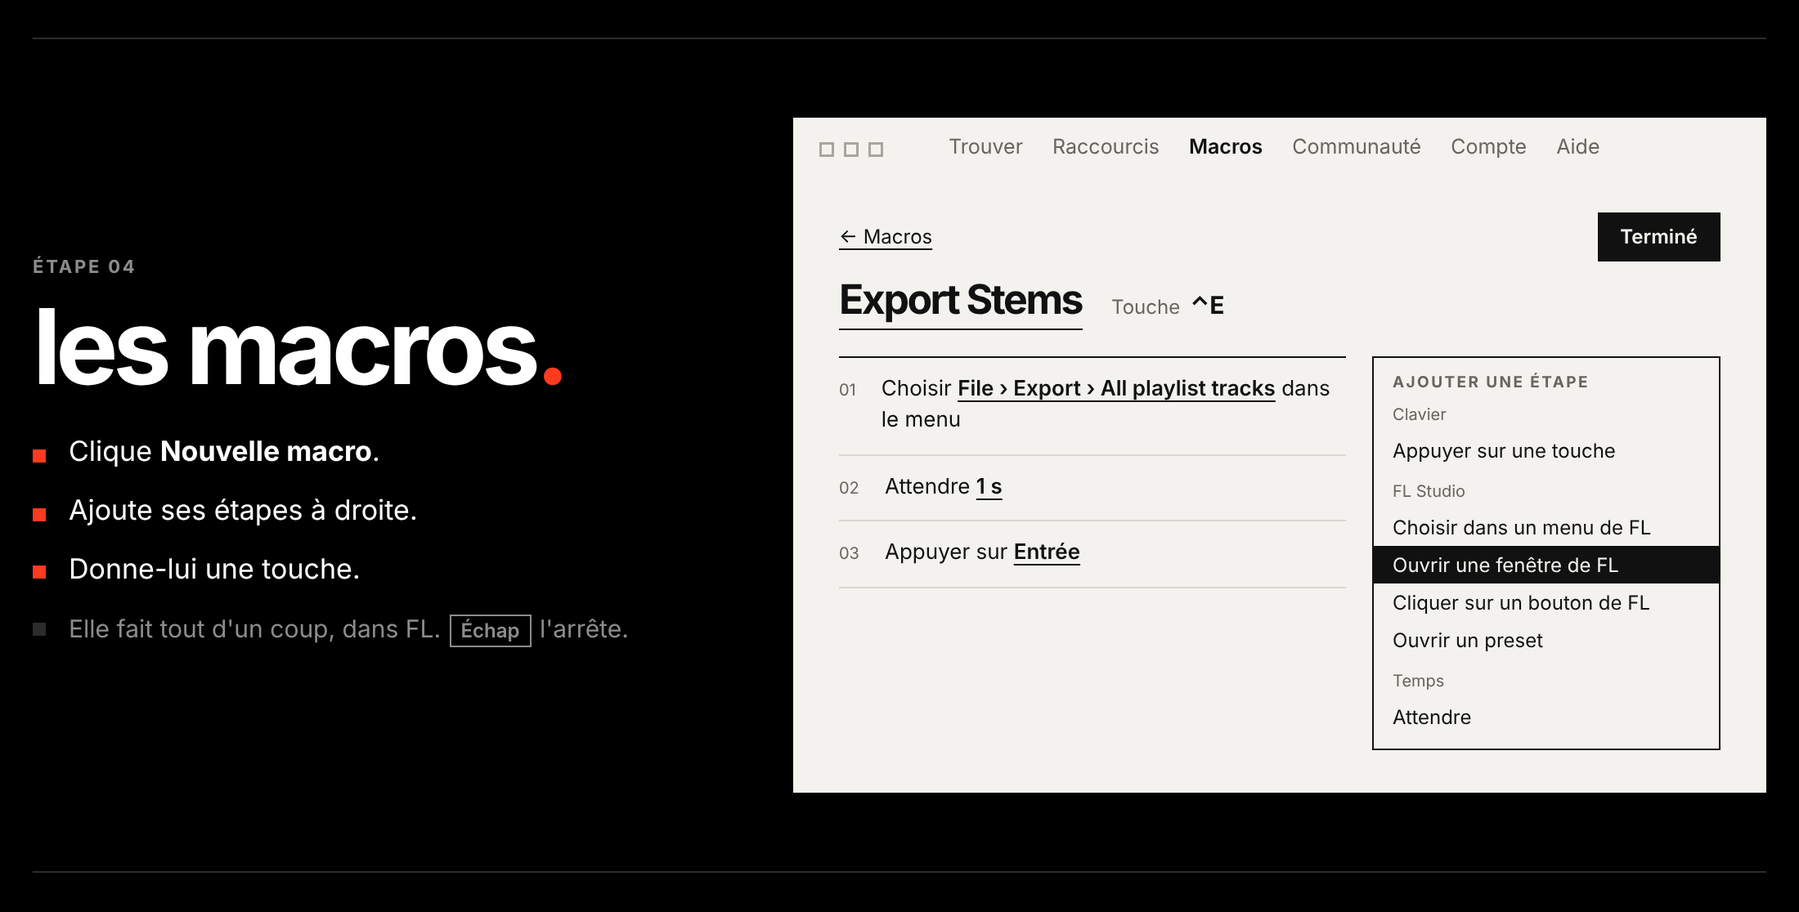
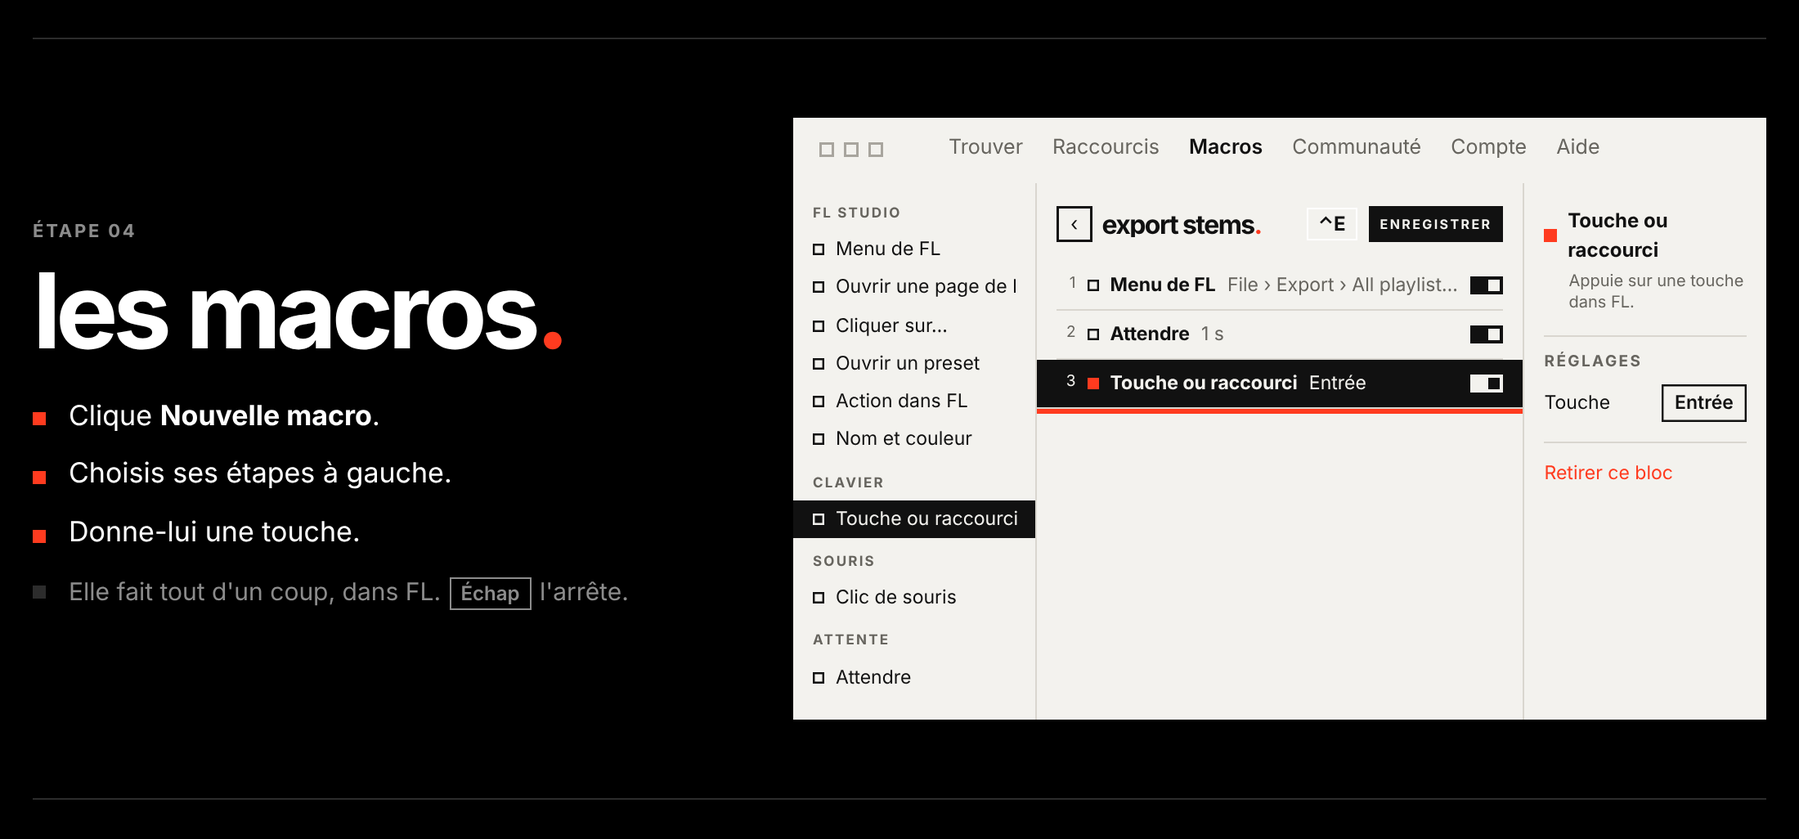
README, tuto et modes d'emploi : le créateur en colonnes (étapes à gauche, réglages à droite) [skip ci]
Claude-Session: https://claude.ai/code/session_01N2FeTTyP7w1fPFHnaWwLWu

diff --git a/site/tuto.html b/site/tuto.html
@@ -118,20 +118,42 @@ main { max-width: 1100px; margin: 0 auto; padding: 0 20px 64px; }
 .rows li.hl .meta, .rows li.hl .meta span:last-child { color: var(--a-bg); }
 
 /* 04 macros */
-.creator-top { display: flex; justify-content: space-between; align-items: center; font-size: 12px; margin-bottom: 12px; }
-.creator-head { display: flex; align-items: baseline; gap: 18px; margin-bottom: 16px; }
-.creator-head .a-title { font-size: 25px; border-bottom: 1px solid var(--a-ink); padding-bottom: 4px; }
-.creator-head .tch { font-size: 12px; color: var(--a-gray); } .creator-head .tch b { color: var(--a-ink); font-size: 15px; margin-left: 6px; }
-.creator { display: grid; grid-template-columns: 1.45fr 1fr; gap: 16px; align-items: start; }
-.srows { border-top: 1px solid var(--a-ink); }
-.srow { display: flex; gap: 12px; align-items: baseline; padding: 10px 0; border-bottom: 1px solid var(--a-line); font-size: 13px; }
-.srow .n { color: var(--a-gray); font-size: 10px; width: 16px; }
-.srow em { font-style: normal; font-weight: 600; text-decoration: underline; text-underline-offset: 3px; }
-.srow.add { color: var(--a-gray); }
-.addbox { border: 1.5px solid var(--a-ink); padding: 10px 12px 8px; font-size: 12px; }
-.addbox .grp { color: var(--a-gray); font-size: 10px; margin: 7px 0 2px; }
-.addbox div:not(.grp):not(.a-label) { padding: 2.5px 0; }
-.addbox .hov { background: var(--a-ink); color: var(--a-bg); margin: 0 -12px; padding-left: 12px !important; }
+/* Créateur de macros en colonnes (28/11, « retourner au pattern qu'on avait avant ») : palette, étapes, réglages. */
+.mk { display: grid; grid-template-columns: 25% 1fr 25%; min-height: 300px; font-size: 11.5px; }
+.mk > div { padding: 14px 12px; min-width: 0; }
+.mk .pal { border-right: 1px solid var(--a-line); }
+.mk .ins { border-left: 1px solid var(--a-line); }
+.mk .cat { font: 700 8.5px/1.2 var(--a-font); letter-spacing: 1.1px; text-transform: uppercase; color: var(--a-gray); margin: 10px 0 5px; }
+.mk .cat:first-child { margin-top: 0; }
+.mk .blk { display: flex; align-items: center; gap: 7px; padding: 3px 0; white-space: nowrap; overflow: hidden; text-overflow: ellipsis; }
+.mk .blk::before { content: ""; flex: none; width: 7px; height: 7px; box-shadow: inset 0 0 0 1.2px var(--a-ink); }
+.mk .blk.hov { background: var(--a-ink); color: var(--a-bg); margin: 0 -12px; padding-left: 12px; }
+.mk .blk.hov::before { box-shadow: inset 0 0 0 1.2px var(--a-bg); }
+.mk .head { display: flex; align-items: center; gap: 6px; margin-bottom: 12px; }
+.mk .back { flex: none; width: 22px; height: 22px; box-shadow: inset 0 0 0 1.5px var(--a-ink); display: grid; place-items: center; font-size: 12px; }
+.mk .head .a-title { font-size: 16px; letter-spacing: -0.05em; flex: 1; white-space: nowrap; overflow: hidden; }
+.mk .head .k { font-size: 12px; font-weight: 700; }
+.mk .head .a-btn { height: 22px; padding: 0 7px; font-size: 8px; }
+.mk .row { display: flex; align-items: center; gap: 7px; height: 30px; border-bottom: 1px solid var(--a-line); white-space: nowrap; overflow: hidden; }
+.mk .row:first-of-type { border-top: 1px solid var(--a-line); }
+.mk .row .n { width: 12px; color: var(--a-gray); font-size: 9.5px; text-align: right; flex: none; }
+.mk .row .sq { flex: none; width: 7px; height: 7px; box-shadow: inset 0 0 0 1.2px var(--a-ink); }
+.mk .row b { font-weight: 700; }
+.mk .row .v { color: var(--a-gray); overflow: hidden; text-overflow: ellipsis; }
+.mk .row .sw { margin-left: auto; flex: none; width: 20px; height: 11px; background: var(--a-ink); position: relative; }
+.mk .row .sw::after { content: ""; position: absolute; right: 2px; top: 2px; width: 7px; height: 7px; background: var(--a-bg); }
+.mk .row.on { background: var(--a-ink); color: var(--a-bg); margin: 0 -12px; padding: 0 12px; box-shadow: 0 3px 0 var(--red); }
+.mk .row.on .n, .mk .row.on .v { color: var(--a-bg); }
+.mk .row.on .sq { background: var(--red); box-shadow: none; }
+.mk .row.on .sw { background: var(--a-bg); } .mk .row.on .sw::after { background: var(--a-ink); }
+.mk .ins h4 { margin: 0; font-size: 12px; display: flex; align-items: center; gap: 7px; }
+.mk .ins h4::before { content: ""; width: 8px; height: 8px; background: var(--red); }
+.mk .ins p { margin: 4px 0 0 15px; color: var(--a-gray); font-size: 10px; line-height: 1.35; }
+.mk .ins .set { margin-top: 12px; padding-top: 10px; border-top: 1px solid var(--a-line); }
+.mk .ins .fld { display: flex; justify-content: space-between; align-items: center; margin-top: 8px; gap: 8px; }
+.mk .ins .fld span:last-child { box-shadow: inset 0 0 0 1.2px var(--a-ink); padding: 3px 8px; font-weight: 600; }
+.mk .ins .rm { display: block; margin-top: 12px; padding-top: 10px; border-top: 1px solid var(--a-line); color: var(--red); }
+@media (max-width: 720px) { .mk { grid-template-columns: 1fr; } .mk .pal, .mk .ins { display: none; } }
 
 /* 05 organiser */
 .org-head { display: flex; align-items: center; gap: 8px; padding-bottom: 10px; border-bottom: 1.5px solid var(--a-ink); }
@@ -322,7 +344,7 @@ footer { padding-top: 40px; color: var(--gray); font-size: 13px; }
     <h2>les macros<span class="point">.</span></h2>
     <ul class="lines">
       <li>Clique <b>Nouvelle macro</b>.</li>
-      <li>Ajoute ses étapes à droite.</li>
+      <li>Choisis ses étapes à gauche.</li>
       <li>Donne-lui une touche.</li>
       <li class="sub">Elle fait tout d'un coup, dans FL. <span class="k">Échap</span> l'arrête.</li>
     </ul>
@@ -330,21 +352,30 @@ footer { padding-top: 40px; color: var(--gray); font-size: 13px; }
   <div class="stage" aria-hidden="true">
     <div class="app">
       <div class="bar"><span class="lights"><i></i><i></i><i></i></span><span>Trouver</span><span>Raccourcis</span><span class="on">Macros</span><span>Communauté</span><span>Compte</span><span>Aide</span></div>
-      <div class="page">
-        <div class="creator-top"><span class="u">← Macros</span><span class="a-btn lc">Terminé</span></div>
-        <div class="creator-head"><span class="a-title">Export Stems</span><span class="tch">Touche<b>⌃E</b></span></div>
-        <div class="creator">
-          <div class="srows">
-            <div class="srow"><span class="n">01</span><span>Choisir <em>File › Export › All playlist tracks</em> dans le menu</span></div>
-            <div class="srow"><span class="n">02</span><span>Attendre <em>1 s</em></span></div>
-            <div class="srow"><span class="n">03</span><span>Appuyer sur <em>Entrée</em></span></div>
-          </div>
-          <div class="addbox">
-            <div class="a-label">Ajouter une étape</div>
-            <div class="grp">Clavier</div><div>Appuyer sur une touche</div>
-            <div class="grp">FL Studio</div><div>Choisir dans un menu de FL</div><div class="hov">Ouvrir une fenêtre de FL</div><div>Cliquer sur un bouton de FL</div><div>Ouvrir un preset</div>
-            <div class="grp">Temps</div><div>Attendre</div>
-          </div>
+      <div class="mk">
+        <div class="pal">
+          <div class="cat">FL Studio</div>
+          <div class="blk">Menu de FL</div><div class="blk">Ouvrir une page de FL</div><div class="blk">Cliquer sur…</div>
+          <div class="blk">Ouvrir un preset</div><div class="blk">Action dans FL</div><div class="blk">Nom et couleur</div>
+          <div class="cat">Clavier</div>
+          <div class="blk hov">Touche ou raccourci</div>
+          <div class="cat">Souris</div>
+          <div class="blk">Clic de souris</div>
+          <div class="cat">Attente</div>
+          <div class="blk">Attendre</div>
+        </div>
+        <div>
+          <div class="head"><span class="back">‹</span><span class="a-title">export stems<span class="point">.</span></span><span class="k">⌃E</span><span class="a-btn">Enregistrer</span></div>
+          <div class="row"><span class="n">1</span><span class="sq"></span><b>Menu de FL</b><span class="v">File › Export › All playlist tracks</span><span class="sw"></span></div>
+          <div class="row"><span class="n">2</span><span class="sq"></span><b>Attendre</b><span class="v">1 s</span><span class="sw"></span></div>
+          <div class="row on"><span class="n">3</span><span class="sq"></span><b>Touche ou raccourci</b><span class="v">Entrée</span><span class="sw"></span></div>
+        </div>
+        <div class="ins">
+          <h4>Touche ou raccourci</h4>
+          <p>Appuie sur une touche dans FL.</p>
+          <div class="set"><div class="a-label">Réglages</div>
+            <div class="fld"><span>Touche</span><span>Entrée</span></div></div>
+          <span class="rm">Retirer ce bloc</span>
         </div>
       </div>
     </div>

diff --git a/web/public/tuto.html b/web/public/tuto.html
@@ -118,20 +118,42 @@ main { max-width: 1100px; margin: 0 auto; padding: 0 20px 64px; }
 .rows li.hl .meta, .rows li.hl .meta span:last-child { color: var(--a-bg); }
 
 /* 04 macros */
-.creator-top { display: flex; justify-content: space-between; align-items: center; font-size: 12px; margin-bottom: 12px; }
-.creator-head { display: flex; align-items: baseline; gap: 18px; margin-bottom: 16px; }
-.creator-head .a-title { font-size: 25px; border-bottom: 1px solid var(--a-ink); padding-bottom: 4px; }
-.creator-head .tch { font-size: 12px; color: var(--a-gray); } .creator-head .tch b { color: var(--a-ink); font-size: 15px; margin-left: 6px; }
-.creator { display: grid; grid-template-columns: 1.45fr 1fr; gap: 16px; align-items: start; }
-.srows { border-top: 1px solid var(--a-ink); }
-.srow { display: flex; gap: 12px; align-items: baseline; padding: 10px 0; border-bottom: 1px solid var(--a-line); font-size: 13px; }
-.srow .n { color: var(--a-gray); font-size: 10px; width: 16px; }
-.srow em { font-style: normal; font-weight: 600; text-decoration: underline; text-underline-offset: 3px; }
-.srow.add { color: var(--a-gray); }
-.addbox { border: 1.5px solid var(--a-ink); padding: 10px 12px 8px; font-size: 12px; }
-.addbox .grp { color: var(--a-gray); font-size: 10px; margin: 7px 0 2px; }
-.addbox div:not(.grp):not(.a-label) { padding: 2.5px 0; }
-.addbox .hov { background: var(--a-ink); color: var(--a-bg); margin: 0 -12px; padding-left: 12px !important; }
+/* Créateur de macros en colonnes (28/11, « retourner au pattern qu'on avait avant ») : palette, étapes, réglages. */
+.mk { display: grid; grid-template-columns: 25% 1fr 25%; min-height: 300px; font-size: 11.5px; }
+.mk > div { padding: 14px 12px; min-width: 0; }
+.mk .pal { border-right: 1px solid var(--a-line); }
+.mk .ins { border-left: 1px solid var(--a-line); }
+.mk .cat { font: 700 8.5px/1.2 var(--a-font); letter-spacing: 1.1px; text-transform: uppercase; color: var(--a-gray); margin: 10px 0 5px; }
+.mk .cat:first-child { margin-top: 0; }
+.mk .blk { display: flex; align-items: center; gap: 7px; padding: 3px 0; white-space: nowrap; overflow: hidden; text-overflow: ellipsis; }
+.mk .blk::before { content: ""; flex: none; width: 7px; height: 7px; box-shadow: inset 0 0 0 1.2px var(--a-ink); }
+.mk .blk.hov { background: var(--a-ink); color: var(--a-bg); margin: 0 -12px; padding-left: 12px; }
+.mk .blk.hov::before { box-shadow: inset 0 0 0 1.2px var(--a-bg); }
+.mk .head { display: flex; align-items: center; gap: 6px; margin-bottom: 12px; }
+.mk .back { flex: none; width: 22px; height: 22px; box-shadow: inset 0 0 0 1.5px var(--a-ink); display: grid; place-items: center; font-size: 12px; }
+.mk .head .a-title { font-size: 16px; letter-spacing: -0.05em; flex: 1; white-space: nowrap; overflow: hidden; }
+.mk .head .k { font-size: 12px; font-weight: 700; }
+.mk .head .a-btn { height: 22px; padding: 0 7px; font-size: 8px; }
+.mk .row { display: flex; align-items: center; gap: 7px; height: 30px; border-bottom: 1px solid var(--a-line); white-space: nowrap; overflow: hidden; }
+.mk .row:first-of-type { border-top: 1px solid var(--a-line); }
+.mk .row .n { width: 12px; color: var(--a-gray); font-size: 9.5px; text-align: right; flex: none; }
+.mk .row .sq { flex: none; width: 7px; height: 7px; box-shadow: inset 0 0 0 1.2px var(--a-ink); }
+.mk .row b { font-weight: 700; }
+.mk .row .v { color: var(--a-gray); overflow: hidden; text-overflow: ellipsis; }
+.mk .row .sw { margin-left: auto; flex: none; width: 20px; height: 11px; background: var(--a-ink); position: relative; }
+.mk .row .sw::after { content: ""; position: absolute; right: 2px; top: 2px; width: 7px; height: 7px; background: var(--a-bg); }
+.mk .row.on { background: var(--a-ink); color: var(--a-bg); margin: 0 -12px; padding: 0 12px; box-shadow: 0 3px 0 var(--red); }
+.mk .row.on .n, .mk .row.on .v { color: var(--a-bg); }
+.mk .row.on .sq { background: var(--red); box-shadow: none; }
+.mk .row.on .sw { background: var(--a-bg); } .mk .row.on .sw::after { background: var(--a-ink); }
+.mk .ins h4 { margin: 0; font-size: 12px; display: flex; align-items: center; gap: 7px; }
+.mk .ins h4::before { content: ""; width: 8px; height: 8px; background: var(--red); }
+.mk .ins p { margin: 4px 0 0 15px; color: var(--a-gray); font-size: 10px; line-height: 1.35; }
+.mk .ins .set { margin-top: 12px; padding-top: 10px; border-top: 1px solid var(--a-line); }
+.mk .ins .fld { display: flex; justify-content: space-between; align-items: center; margin-top: 8px; gap: 8px; }
+.mk .ins .fld span:last-child { box-shadow: inset 0 0 0 1.2px var(--a-ink); padding: 3px 8px; font-weight: 600; }
+.mk .ins .rm { display: block; margin-top: 12px; padding-top: 10px; border-top: 1px solid var(--a-line); color: var(--red); }
+@media (max-width: 720px) { .mk { grid-template-columns: 1fr; } .mk .pal, .mk .ins { display: none; } }
 
 /* 05 organiser */
 .org-head { display: flex; align-items: center; gap: 8px; padding-bottom: 10px; border-bottom: 1.5px solid var(--a-ink); }
@@ -322,7 +344,7 @@ footer { padding-top: 40px; color: var(--gray); font-size: 13px; }
     <h2>les macros<span class="point">.</span></h2>
     <ul class="lines">
       <li>Clique <b>Nouvelle macro</b>.</li>
-      <li>Ajoute ses étapes à droite.</li>
+      <li>Choisis ses étapes à gauche.</li>
       <li>Donne-lui une touche.</li>
       <li class="sub">Elle fait tout d'un coup, dans FL. <span class="k">Échap</span> l'arrête.</li>
     </ul>
@@ -330,21 +352,30 @@ footer { padding-top: 40px; color: var(--gray); font-size: 13px; }
   <div class="stage" aria-hidden="true">
     <div class="app">
       <div class="bar"><span class="lights"><i></i><i></i><i></i></span><span>Trouver</span><span>Raccourcis</span><span class="on">Macros</span><span>Communauté</span><span>Compte</span><span>Aide</span></div>
-      <div class="page">
-        <div class="creator-top"><span class="u">← Macros</span><span class="a-btn lc">Terminé</span></div>
-        <div class="creator-head"><span class="a-title">Export Stems</span><span class="tch">Touche<b>⌃E</b></span></div>
-        <div class="creator">
-          <div class="srows">
-            <div class="srow"><span class="n">01</span><span>Choisir <em>File › Export › All playlist tracks</em> dans le menu</span></div>
-            <div class="srow"><span class="n">02</span><span>Attendre <em>1 s</em></span></div>
-            <div class="srow"><span class="n">03</span><span>Appuyer sur <em>Entrée</em></span></div>
-          </div>
-          <div class="addbox">
-            <div class="a-label">Ajouter une étape</div>
-            <div class="grp">Clavier</div><div>Appuyer sur une touche</div>
-            <div class="grp">FL Studio</div><div>Choisir dans un menu de FL</div><div class="hov">Ouvrir une fenêtre de FL</div><div>Cliquer sur un bouton de FL</div><div>Ouvrir un preset</div>
-            <div class="grp">Temps</div><div>Attendre</div>
-          </div>
+      <div class="mk">
+        <div class="pal">
+          <div class="cat">FL Studio</div>
+          <div class="blk">Menu de FL</div><div class="blk">Ouvrir une page de FL</div><div class="blk">Cliquer sur…</div>
+          <div class="blk">Ouvrir un preset</div><div class="blk">Action dans FL</div><div class="blk">Nom et couleur</div>
+          <div class="cat">Clavier</div>
+          <div class="blk hov">Touche ou raccourci</div>
+          <div class="cat">Souris</div>
+          <div class="blk">Clic de souris</div>
+          <div class="cat">Attente</div>
+          <div class="blk">Attendre</div>
+        </div>
+        <div>
+          <div class="head"><span class="back">‹</span><span class="a-title">export stems<span class="point">.</span></span><span class="k">⌃E</span><span class="a-btn">Enregistrer</span></div>
+          <div class="row"><span class="n">1</span><span class="sq"></span><b>Menu de FL</b><span class="v">File › Export › All playlist tracks</span><span class="sw"></span></div>
+          <div class="row"><span class="n">2</span><span class="sq"></span><b>Attendre</b><span class="v">1 s</span><span class="sw"></span></div>
+          <div class="row on"><span class="n">3</span><span class="sq"></span><b>Touche ou raccourci</b><span class="v">Entrée</span><span class="sw"></span></div>
+        </div>
+        <div class="ins">
+          <h4>Touche ou raccourci</h4>
+          <p>Appuie sur une touche dans FL.</p>
+          <div class="set"><div class="a-label">Réglages</div>
+            <div class="fld"><span>Touche</span><span>Entrée</span></div></div>
+          <span class="rm">Retirer ce bloc</span>
         </div>
       </div>
     </div>

diff --git a/docs/telechargement/LISEZMOI-Mac.html b/docs/telechargement/LISEZMOI-Mac.html
@@ -200,7 +200,7 @@ details.full img { width: 100%; margin-top: 10px; border: 1px solid #333; }
     </div>
     <div class="cards">
       <div><span class="n">01</span><b>nouvelle macro</b><small>Le créateur s'ouvre.</small></div>
-      <div><span class="n">02</span><b>ses étapes</b><small>Ajoute-les à droite. Elles se lisent comme des phrases.</small></div>
+      <div><span class="n">02</span><b>ses étapes</b><small>Choisis-les à gauche, règle-les à droite.</small></div>
       <div><span class="n">03</span><b>une touche</b><small>Elle fait tout d'un coup, dans FL.</small></div>
     </div>
   </section>

diff --git a/docs/telechargement/LISEZMOI-Windows.html b/docs/telechargement/LISEZMOI-Windows.html
@@ -200,7 +200,7 @@ details.full img { width: 100%; margin-top: 10px; border: 1px solid #333; }
     </div>
     <div class="cards">
       <div><span class="n">01</span><b>nouvelle macro</b><small>Le créateur s'ouvre.</small></div>
-      <div><span class="n">02</span><b>ses étapes</b><small>Ajoute-les à droite. Elles se lisent comme des phrases.</small></div>
+      <div><span class="n">02</span><b>ses étapes</b><small>Choisis-les à gauche, règle-les à droite.</small></div>
       <div><span class="n">03</span><b>une touche</b><small>Elle fait tout d'un coup, dans FL.</small></div>
     </div>
   </section>

diff --git a/docs/telechargement/modele-mac.html b/docs/telechargement/modele-mac.html
@@ -193,7 +193,7 @@ details.full img { width: 100%; margin-top: 10px; border: 1px solid #333; }
     </div>
     <div class="cards">
       <div><span class="n">01</span><b>nouvelle macro</b><small>Le créateur s'ouvre.</small></div>
-      <div><span class="n">02</span><b>ses étapes</b><small>Ajoute-les à droite. Elles se lisent comme des phrases.</small></div>
+      <div><span class="n">02</span><b>ses étapes</b><small>Choisis-les à gauche, règle-les à droite.</small></div>
       <div><span class="n">03</span><b>une touche</b><small>Elle fait tout d'un coup, dans FL.</small></div>
     </div>
   </section>

diff --git a/docs/telechargement/modele-windows.html b/docs/telechargement/modele-windows.html
@@ -193,7 +193,7 @@ details.full img { width: 100%; margin-top: 10px; border: 1px solid #333; }
     </div>
     <div class="cards">
       <div><span class="n">01</span><b>nouvelle macro</b><small>Le créateur s'ouvre.</small></div>
-      <div><span class="n">02</span><b>ses étapes</b><small>Ajoute-les à droite. Elles se lisent comme des phrases.</small></div>
+      <div><span class="n">02</span><b>ses étapes</b><small>Choisis-les à gauche, règle-les à droite.</small></div>
       <div><span class="n">03</span><b>une touche</b><small>Elle fait tout d'un coup, dans FL.</small></div>
     </div>
   </section>

diff --git a/web/public/mode-emploi-mac.html b/web/public/mode-emploi-mac.html
@@ -200,7 +200,7 @@ details.full img { width: 100%; margin-top: 10px; border: 1px solid #333; }
     </div>
     <div class="cards">
       <div><span class="n">01</span><b>nouvelle macro</b><small>Le créateur s'ouvre.</small></div>
-      <div><span class="n">02</span><b>ses étapes</b><small>Ajoute-les à droite. Elles se lisent comme des phrases.</small></div>
+      <div><span class="n">02</span><b>ses étapes</b><small>Choisis-les à gauche, règle-les à droite.</small></div>
       <div><span class="n">03</span><b>une touche</b><small>Elle fait tout d'un coup, dans FL.</small></div>
     </div>
   </section>

diff --git a/web/public/mode-emploi-windows.html b/web/public/mode-emploi-windows.html
@@ -200,7 +200,7 @@ details.full img { width: 100%; margin-top: 10px; border: 1px solid #333; }
     </div>
     <div class="cards">
       <div><span class="n">01</span><b>nouvelle macro</b><small>Le créateur s'ouvre.</small></div>
-      <div><span class="n">02</span><b>ses étapes</b><small>Ajoute-les à droite. Elles se lisent comme des phrases.</small></div>
+      <div><span class="n">02</span><b>ses étapes</b><small>Choisis-les à gauche, règle-les à droite.</small></div>
       <div><span class="n">03</span><b>une touche</b><small>Elle fait tout d'un coup, dans FL.</small></div>
     </div>
   </section>

diff --git a/docs/telechargement/README-Mac.html b/docs/telechargement/README-Mac.html
@@ -200,7 +200,7 @@ details.full img { width: 100%; margin-top: 10px; border: 1px solid #333; }
     </div>
     <div class="cards">
       <div><span class="n">01</span><b>new macro</b><small>The creator opens.</small></div>
-      <div><span class="n">02</span><b>its steps</b><small>Add them on the right. They read like sentences.</small></div>
+      <div><span class="n">02</span><b>its steps</b><small>Pick them on the left, set them on the right.</small></div>
       <div><span class="n">03</span><b>a key</b><small>It does it all at once, in FL.</small></div>
     </div>
   </section>

diff --git a/docs/telechargement/README-Windows.html b/docs/telechargement/README-Windows.html
@@ -200,7 +200,7 @@ details.full img { width: 100%; margin-top: 10px; border: 1px solid #333; }
     </div>
     <div class="cards">
       <div><span class="n">01</span><b>new macro</b><small>The creator opens.</small></div>
-      <div><span class="n">02</span><b>its steps</b><small>Add them on the right. They read like sentences.</small></div>
+      <div><span class="n">02</span><b>its steps</b><small>Pick them on the left, set them on the right.</small></div>
       <div><span class="n">03</span><b>a key</b><small>It does it all at once, in FL.</small></div>
     </div>
   </section>

diff --git a/docs/telechargement/modele-mac-en.html b/docs/telechargement/modele-mac-en.html
@@ -193,7 +193,7 @@ details.full img { width: 100%; margin-top: 10px; border: 1px solid #333; }
     </div>
     <div class="cards">
       <div><span class="n">01</span><b>new macro</b><small>The creator opens.</small></div>
-      <div><span class="n">02</span><b>its steps</b><small>Add them on the right. They read like sentences.</small></div>
+      <div><span class="n">02</span><b>its steps</b><small>Pick them on the left, set them on the right.</small></div>
       <div><span class="n">03</span><b>a key</b><small>It does it all at once, in FL.</small></div>
     </div>
   </section>

diff --git a/docs/telechargement/modele-windows-en.html b/docs/telechargement/modele-windows-en.html
@@ -193,7 +193,7 @@ details.full img { width: 100%; margin-top: 10px; border: 1px solid #333; }
     </div>
     <div class="cards">
       <div><span class="n">01</span><b>new macro</b><small>The creator opens.</small></div>
-      <div><span class="n">02</span><b>its steps</b><small>Add them on the right. They read like sentences.</small></div>
+      <div><span class="n">02</span><b>its steps</b><small>Pick them on the left, set them on the right.</small></div>
       <div><span class="n">03</span><b>a key</b><small>It does it all at once, in FL.</small></div>
     </div>
   </section>
